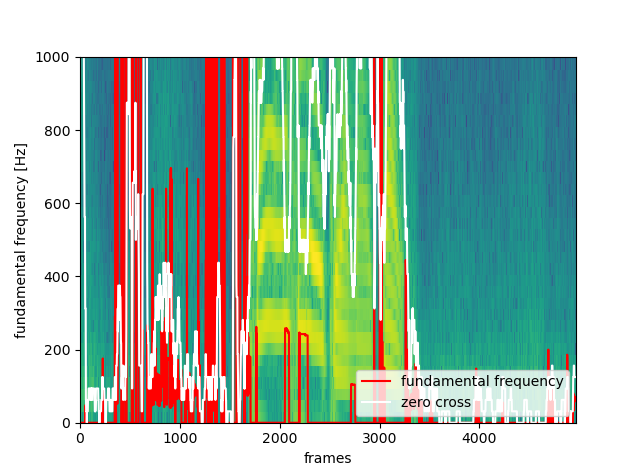
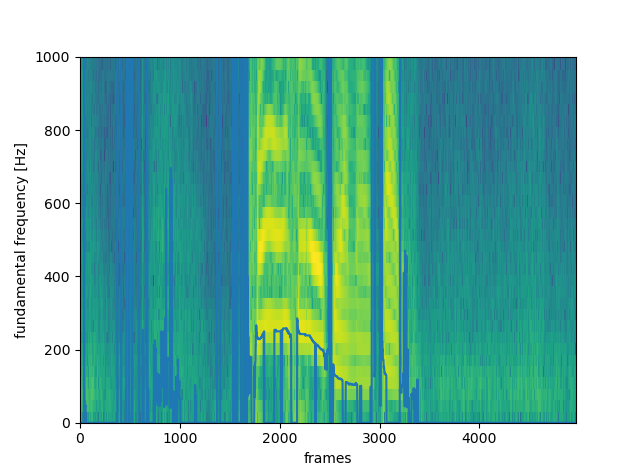
exercise14, 15

Changed region(s): [[0.125, 0.1179, 0.9062, 0.9137]]

diff --git a/exercise/exercise15/test.py b/exercise/exercise15/test.py
@@ -1,0 +1,153 @@
+# ライブラリの読み込み
+import matplotlib.pyplot as plt
+import numpy as np
+import librosa
+
+# サンプリングレート
+SR = 16000
+
+# フレームサイズ
+size_frame = 512
+
+# フレームサイズに合わせてブラックマン窓を作成
+window = np.blackman(size_frame)
+
+# シフトサイズ
+size_shift = 16000 / 1000	# 0.001 秒 (10 msec)
+
+# スペクトルを受け取り，ケプストラムの実数部分を返す関数
+def calc_ceps(amplitude_spectrum):
+	# ブラックマン窓を作成
+	window = np.blackman(len(amplitude_spectrum))
+	# 窓掛けしたデータをFFT
+	cepstrum = np.fft.rfft(amplitude_spectrum * window)
+	# 13次までのケプストラム係数を抽出
+	coefficients = cepstrum[:13]
+	# 0埋め
+	cepstrum = np.append(coefficients, [0] * (len(cepstrum) - len(coefficients)))
+	# 取り出した成分を逆フーリエ変換し、実数部分を取り出す
+	spectral_envelope = np.abs(np.fft.irfft(cepstrum))
+	return spectral_envelope
+
+#
+# ケプストラム集合の対数尤度を返す関数
+# 	x:ケプストラム係数 (D)
+# 	mu:ある母音のmu (D)
+# 	sigma:ある母音のsigma (D)
+#
+def calc_likelihood(x, mu, sigma):
+	eps = 1e-8
+	results = 0
+	for i in range(x.shape[0]):
+		results += -(np.log(np.sqrt(sigma[i]) + eps) + (x[i] - mu[i])**2/(2*sigma[i] + eps))
+	return results
+
+# 音声波形データを受け取り，ゼロ交差数を計算する関数
+def calc_zero_cross(waveform):
+	zc = 0
+	for i in range(len(waveform) - 1):
+		if(
+			(waveform[i] > 0.0 and waveform[i+1] < 0.0) or
+			(waveform[i] < 0.0 and waveform[i+1] > 0.0)
+		):
+			zc += 1
+	# 単位時間あたりに変換
+	return zc * SR / size_frame
+
+#####################################################################
+
+if __name__ == "__main__":
+	#
+	# 入力テストデータの認識
+	#
+
+	# 母音の推定インデックスの格納場所
+	predicted = []
+
+	# スペクトログラムを保存するlist
+	spectrogram = []
+
+	# ゼロ交差数の格納場所
+	zero_count = []
+
+	# 音声ファイルの読み込み
+	y, _ = librosa.load("waves/continuous/aiueo.wav", sr=SR)
+
+	# パラメータの読み込み
+	mu_list = np.load('parameter/exercise15/mu.npz')
+	mu_a = mu_list['arr_0']
+	mu_i = mu_list['arr_1']
+	mu_u = mu_list['arr_2']
+	mu_e = mu_list['arr_3']
+	mu_o = mu_list['arr_4']
+
+	sigma_list = np.load('parameter/exercise15/sigma.npz')
+	sigma_a = sigma_list['arr_0']
+	sigma_i = sigma_list['arr_1']
+	sigma_u = sigma_list['arr_2']
+	sigma_e = sigma_list['arr_3']
+	sigma_o = sigma_list['arr_4']
+
+	# 
+	# 短時間フレームにおける処理
+	# 
+
+	for i in np.arange(0, len(y)-size_frame, size_shift):
+		# 該当フレームのデータを取得
+		idx = int(i)	# arangeのインデクスはfloatなのでintに変換
+		y_frame = y[idx : idx+size_frame]
+
+		# 窓掛けしたデータをFFT
+		fft_spec = np.fft.rfft(y_frame * window)
+
+		# 複素スペクトログラムを対数振幅スペクトログラムに
+		fft_log_abs_spec = np.log(np.abs(fft_spec))
+
+		# 計算した対数振幅スペクトログラムを配列に保存
+		spectrogram.append(fft_log_abs_spec)
+
+		# スペクトルを受け取り，ケプストラムを得る
+		frame_cepstrum = calc_ceps(fft_log_abs_spec)
+
+		# 対数尤度の計算
+		likelihood_a = calc_likelihood(frame_cepstrum, mu_a, sigma_a)
+		likelihood_i = calc_likelihood(frame_cepstrum, mu_i, sigma_i)
+		likelihood_u = calc_likelihood(frame_cepstrum, mu_u, sigma_u)
+		likelihood_e = calc_likelihood(frame_cepstrum, mu_e, sigma_e)
+		likelihood_o = calc_likelihood(frame_cepstrum, mu_o, sigma_o)
+		likelihood_list = [likelihood_a, likelihood_i, likelihood_u, likelihood_e, likelihood_o]
+		# 最大値のインデックスを取得(あ=0, い=1, う=2, え=3, お=4)
+		predicted.append(likelihood_list.index(max(likelihood_list)))
+		# ゼロ交差数の計算
+		zero_count.append(calc_zero_cross(y_frame))
+
+	# 1から始まるようにインデックス修正(あ=1, い=2, う=3, え=4, お=5)
+	predicted = np.array(predicted) + 1
+
+	#
+	# 画像に表示・保存
+	#
+
+	# 画像として保存するための設定
+	fig = plt.figure()
+
+	# まずはスペクトログラムを描画
+	ax1 = fig.add_subplot(111)
+	ax1.set_xlabel('frames')
+	ax1.set_ylabel('frequency [Hz]')
+	ax1.imshow(
+		np.flipud(np.array(spectrogram).T),
+		extent=[0, len(predicted), 0, SR/2],
+		aspect='auto',
+		interpolation='nearest'
+	)
+
+	# 続いて右側のy軸を追加して，音量を重ねて描画
+	ax2 = ax1.twinx()
+	ax2.set_ylabel('predicted')
+	ax2.plot(predicted)
+
+	plt.show()
+
+	# 保存
+	fig.savefig('images/exercise15/predicted.png')

diff --git a/exercise/exercise15/train.py b/exercise/exercise15/train.py
@@ -1,0 +1,95 @@
+# ライブラリの読み込み
+import matplotlib.pyplot as plt
+import numpy as np
+import librosa
+
+# サンプリングレート
+SR = 16000
+
+# フレームサイズ
+size_frame = 512
+
+# フレームサイズに合わせてブラックマン窓を作成
+window = np.blackman(size_frame)
+
+# シフトサイズ
+size_shift = 16000 / 1000	# 0.001 秒 (10 msec)
+
+# スペクトルを受け取り，ケプストラムの実数部分を返す関数
+def calc_ceps(amplitude_spectrum):
+	# ブラックマン窓を作成
+	window = np.blackman(len(amplitude_spectrum))
+	# 窓掛けしたデータをFFT
+	cepstrum = np.fft.rfft(amplitude_spectrum * window)
+	# 13次までのケプストラム係数を抽出
+	coefficients = cepstrum[:13]
+	# 0埋め
+	cepstrum = np.append(coefficients, [0] * (len(cepstrum) - len(coefficients)))
+	# 取り出した成分を逆フーリエ変換し、実数部分を取り出す
+	spectral_envelope = np.abs(np.fft.irfft(cepstrum))
+	return spectral_envelope
+
+# 短時間フレームにおけるケプストラム計算
+def get_ceps(x, ceps_x):
+	for i in np.arange(0, len(x)-size_frame, size_shift):
+		# 該当フレームのデータを取得
+		idx = int(i)	# arangeのインデクスはfloatなのでintに変換
+		x_frame = x[idx : idx+size_frame]
+
+		# 窓掛けしたデータをFFT
+		fft_spec = np.fft.rfft(x_frame * window)
+
+		# 複素スペクトログラムを対数振幅スペクトログラムに
+		fft_log_abs_spec = np.log(np.abs(fft_spec))
+
+		# スペクトルを受け取り，ケプストラムを得る
+		frame_cepstrum = calc_ceps(fft_log_abs_spec)
+
+		# ケプストラムを配列に保存
+		ceps_x.append(frame_cepstrum)
+	return ceps_x
+
+#####################################################################
+
+if __name__ == "__main__":
+	# 
+	# 学習させるデータの多次元正規分布を学習
+	# 
+
+	# 音声ファイルの読み込み
+	x_a, _ = librosa.load('waves/discrete/a.wav', sr=SR)
+	x_i, _ = librosa.load('waves/discrete/i.wav', sr=SR)
+	x_u, _ = librosa.load('waves/discrete/u.wav', sr=SR)
+	x_e, _ = librosa.load('waves/discrete/e.wav', sr=SR)
+	x_o, _ = librosa.load('waves/discrete/o.wav', sr=SR)
+
+	# 「あ」「い」「う」「え」「お」のケプストラム計算
+	ceps_a = []
+	ceps_i = []
+	ceps_u = []
+	ceps_e = []
+	ceps_o = []
+
+	ceps_a = get_ceps(x_a, ceps_a)
+	ceps_i = get_ceps(x_i, ceps_i)
+	ceps_u = get_ceps(x_u, ceps_u)
+	ceps_e = get_ceps(x_e, ceps_e)
+	ceps_o = get_ceps(x_o, ceps_o)
+
+	# 平均
+	mu_a = np.mean(np.array(ceps_a), axis=0)
+	mu_i = np.mean(np.array(ceps_i), axis=0)
+	mu_u = np.mean(np.array(ceps_u), axis=0)
+	mu_e = np.mean(np.array(ceps_e), axis=0)
+	mu_o = np.mean(np.array(ceps_o), axis=0)
+
+	# 平均二乗誤差
+	sigma_a = np.mean((np.array(ceps_a) - mu_a[None,:])**2, axis=0)
+	sigma_i = np.mean((np.array(ceps_i) - mu_i[None,:])**2, axis=0)
+	sigma_u = np.mean((np.array(ceps_u) - mu_u[None,:])**2, axis=0)
+	sigma_e = np.mean((np.array(ceps_e) - mu_e[None,:])**2, axis=0)
+	sigma_o = np.mean((np.array(ceps_o) - mu_o[None,:])**2, axis=0)
+
+	# パラメータの保存
+	np.savez('parameter/exercise15/mu.npz', mu_a, mu_i, mu_u, mu_e, mu_o)
+	np.savez('parameter/exercise15/sigma.npz', sigma_a, sigma_i, sigma_u, sigma_e, sigma_o)

diff --git a/exercise/exercise14/zero_cross.py b/exercise/exercise14/zero_cross.py
@@ -7,7 +7,7 @@ import librosa
 SR = 16000
 
 # フレームサイズ
-size_frame = 512			# 2のべき乗
+size_frame = 512
 
 # フレームサイズに合わせてブラックマン窓を作成
 window = np.blackman(size_frame)
@@ -50,7 +50,6 @@ def is_peak(a, index):
 # 音声ファイルの読み込み
 x, _ = librosa.load('waves/exercise14/voice.wav', sr=SR)
 
-
 # 
 # 短時間フレームにおける処理
 # 
@@ -77,36 +76,26 @@ for i in np.arange(0, len(x)-size_frame, size_shift):
 	# 不要な前半を捨てる
 	autocorr = autocorr[len(autocorr)//2 : ]
 
-	if zero_cross(x_frame) < 100 or zero_cross(x_frame) > 500 :		# 無声音または無音区間
-		# リストに追加
-		frequency.append(0)
+	# ピークのインデックスを抽出する
+	peakindices = [i for i in range (len(autocorr)) if is_peak(autocorr, i)]
 
-	else:
-		# ピークのインデックスを抽出する
-		peakindices = [i for i in range (len(autocorr)) if is_peak(autocorr, i)]
+	# インデックス0 がピークに含まれていれば捨てる
+	peakindices = [i for i in peakindices if i != 0]
 
-		# インデックス0 がピークに含まれていれば捨てる
-		peakindices = [i for i in peakindices if i != 0]
+	# 自己相関が最大となるインデックスを得る(単位:インデックス)
+	max_peak_index = max(peakindices, key=lambda index: autocorr[index])
 
-		# 自己相関が最大となるインデックスを得る(単位:インデックス)
-		max_peak_index = max(peakindices, key=lambda index: autocorr[index])
+	# インデックスに対応する周波数を得る(単位:1/秒)
+	frequency_frame = 1/(max_peak_index/SR)
 
-		# インデックスに対応する周波数を得る(単位:1/秒)
-		frequency_frame = 1/(max_peak_index/SR)
-
-		# リストに追加
-		frequency.append(frequency_frame)
+	# リストに追加
+	frequency.append(frequency_frame)
 
 	#
 	# スペクトログラムをプロット
 	#
 
-	# 該当フレームのデータを取得
-	idx = int(i)	# arangeのインデクスはfloatなのでintに変換
-	x_frame = x[idx : idx+size_frame]
-
 	# 窓掛けしたデータをFFT
-	# np.fft.rfftを使用するとFFTの前半部分のみが得られる
 	fft_spec = np.fft.rfft(x_frame * window)
 
 	# 複素スペクトログラムを対数振幅スペクトログラムに
@@ -114,6 +103,18 @@ for i in np.arange(0, len(x)-size_frame, size_shift):
 
 	# 計算した対数振幅スペクトログラムを配列に保存
 	spectrogram.append(fft_log_abs_spec)
+
+# 閾値を設定。ゼロ交差数が0の場合基本周波数を0とする。左右1フレームも0にした。
+for i in range(len(zero_count)):
+	if zero_count[i] < 200 or zero_count[i] > 1000:
+		if i == 0:
+			frequency[i+1] = 0
+		elif i == len(zero_count) - 1:
+			frequency[i-1] = 0
+		else :
+			frequency[i+1] = 0
+			frequency[i-1] = 0
+		frequency[i] = 0
 
 #
 # 画像に表示・保存
@@ -132,9 +133,7 @@ plt.imshow(
 	interpolation='nearest'
 )
 
-plt.plot(frequency, color="r", label="fundamental frequency")			# 基本周波数を描画
-plt.plot(zero_count, color="w", label="zero cross")			# ゼロ交差数を描画
-plt.legend(loc='lower right')
+plt.plot(frequency)
 plt.ylim([0, 1000])    # 縦軸を拡大する。
 plt.show()
 

diff --git a/exercise/exercise14/memo.md b/exercise/exercise14/memo.md
@@ -1,3 +1,4 @@
-基本周波数は150-200ほど。最初高くて途中から低くなる。
+自分の声の基本周波数は100~500Hz程度と推定。最初高くて途中から低くなる。
 ゼロ交差数がF0の2倍程度かを判定し、そうでなければ0を配列に追加する。
-ゼロ交差数が100-500程度のものを有声音と判定した。
+ゼロ交差数が200-1000程度のものを有声音と判定した。
+無声音と判定したフレームと、その前後1フレームを0Hzとした。

diff --git a/exercise/exercise15/memo.md b/exercise/exercise15/memo.md
@@ -1,0 +1,7 @@
+### train.py
+パラメータの推定。
+パラメータを学習し、ファイルに書き出した。
+## test.py
+連続あいうえおの母音認識。
+パラメータをロードして、認識結果をスペクトログラムに重ねて表示する。
+グラフの可視化のため、「あ」から1オリジンにした。
